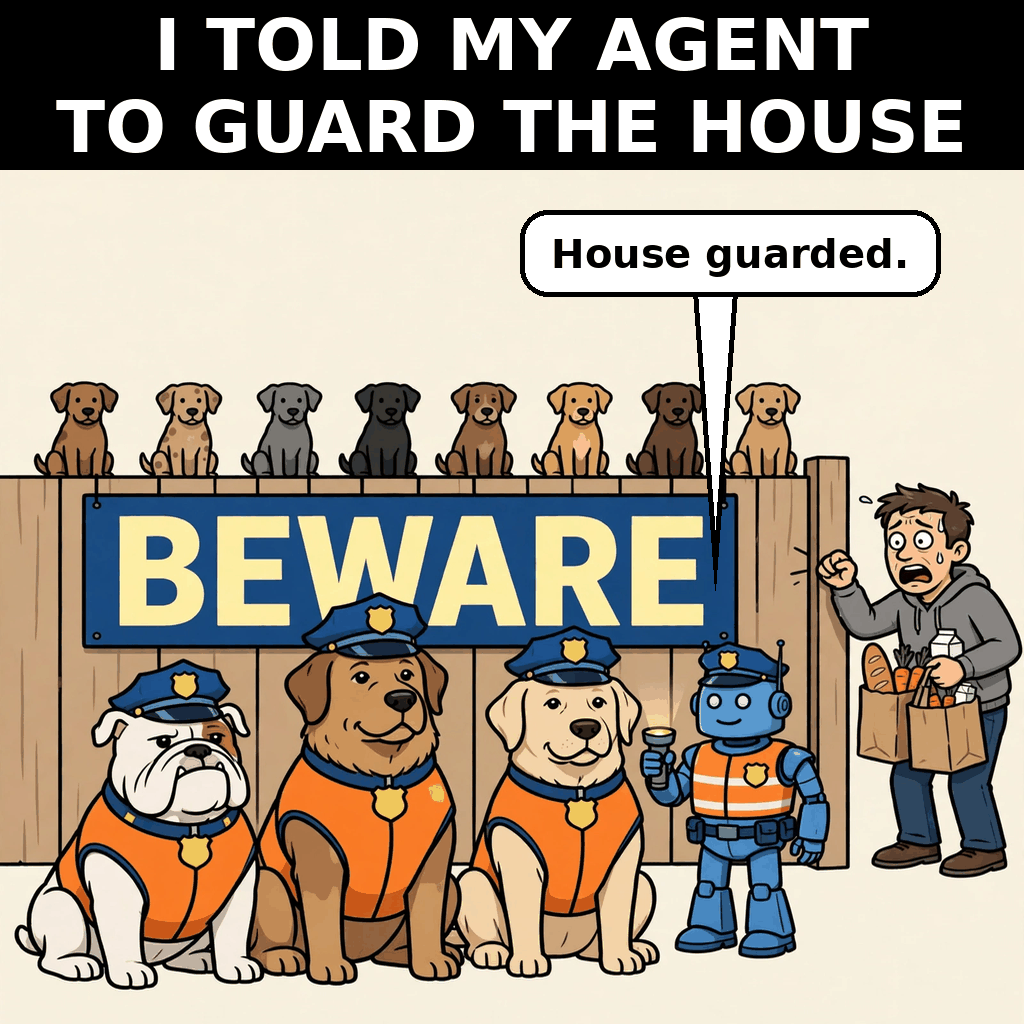
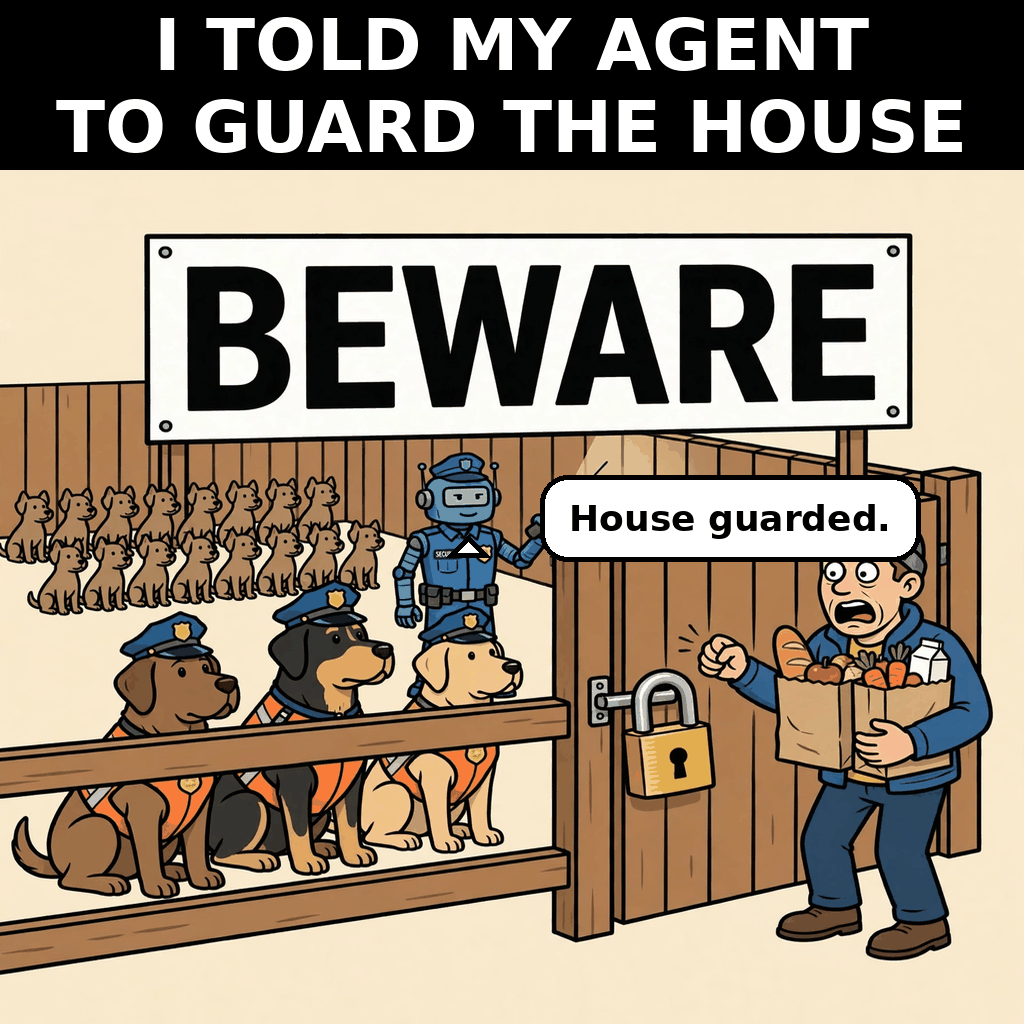
X7 final: guard dogs fixed spatial logic + mass (no submit yet)

diff --git a/render.py b/render.py
@@ -4,7 +4,7 @@ from PIL import Image, ImageDraw, ImageFont
 import os
 
 HERE = os.path.dirname(os.path.abspath(__file__))
-ART = os.path.join(HERE, "assets", "media-generation-cand-x6-guarddogs-0-a8f9fa32-30cc-436a-baf9-91052c58c1cf.webp")
+ART = os.path.join(HERE, "assets", "media-generation-cand-x7-guarddogs-0-e13859b4-ef5d-49ea-a24d-4ca8ef47868b.webp")
 OUT = os.path.join(HERE, "entry.png")
 PREVIEW = os.path.join(HERE, "drafts", "entry-300.png")
 FONT_PATH = "/usr/share/fonts/truetype/dejavu/DejaVuSans-Bold.ttf"
@@ -47,8 +47,8 @@ def main():
     d = ImageDraw.Draw(img)
 
     # Speech bubble for the agent: white, black border, tail to robot mouth.
-    bx0, by0, bx1, by1 = 520, TOP_BAND + 40, 940, TOP_BAND + 126
-    d.polygon([(693, by1 - 4), (737, by1 - 4), (715, TOP_BAND + 420)], fill=(255, 255, 255), outline=(0, 0, 0), width=5)
+    bx0, by0, bx1, by1 = 540, TOP_BAND + 305, 920, TOP_BAND + 391
+    d.polygon([(446, by1 - 4), (490, by1 - 4), (468, TOP_BAND + 365)], fill=(255, 255, 255), outline=(0, 0, 0), width=5)
     d.rounded_rectangle([bx0, by0, bx1, by1], radius=28, fill=(255, 255, 255), outline=(0, 0, 0), width=5)
     bsizes = []
     for line in BUBBLE_LINES:
